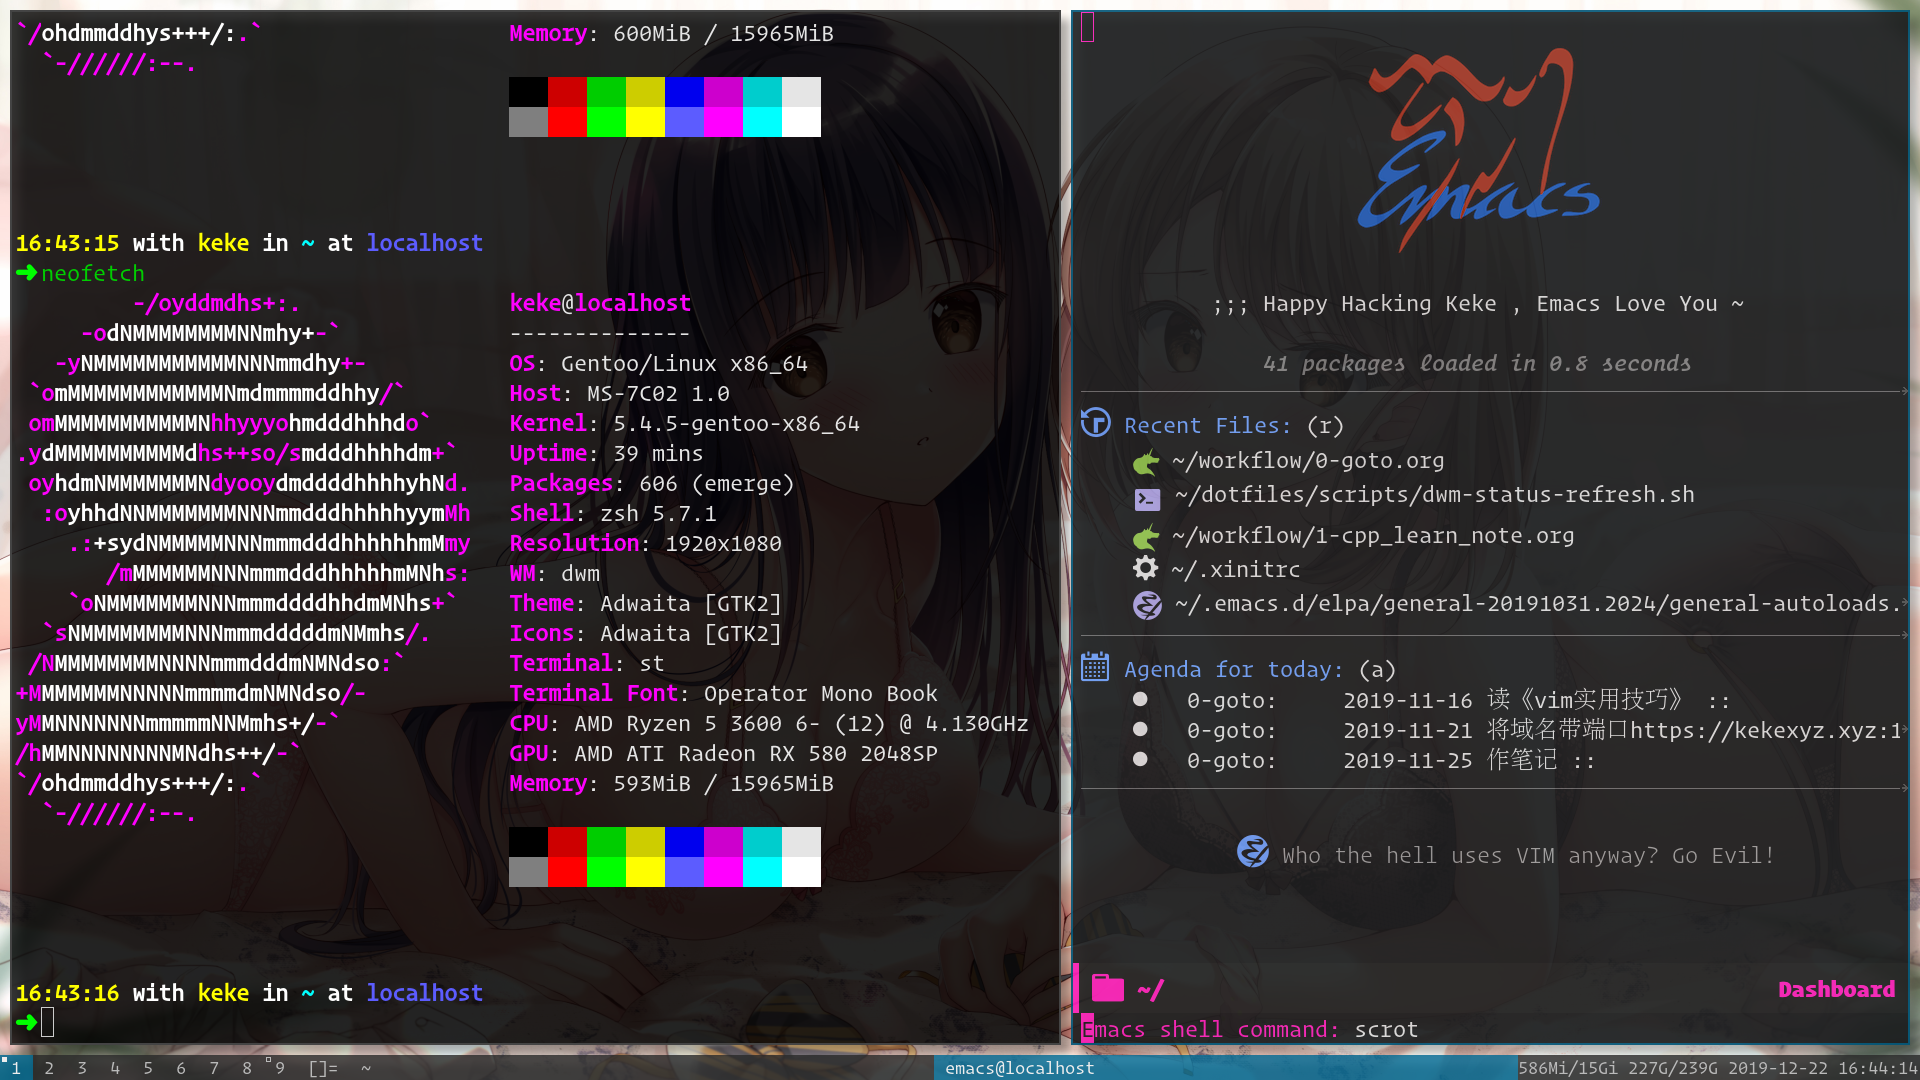
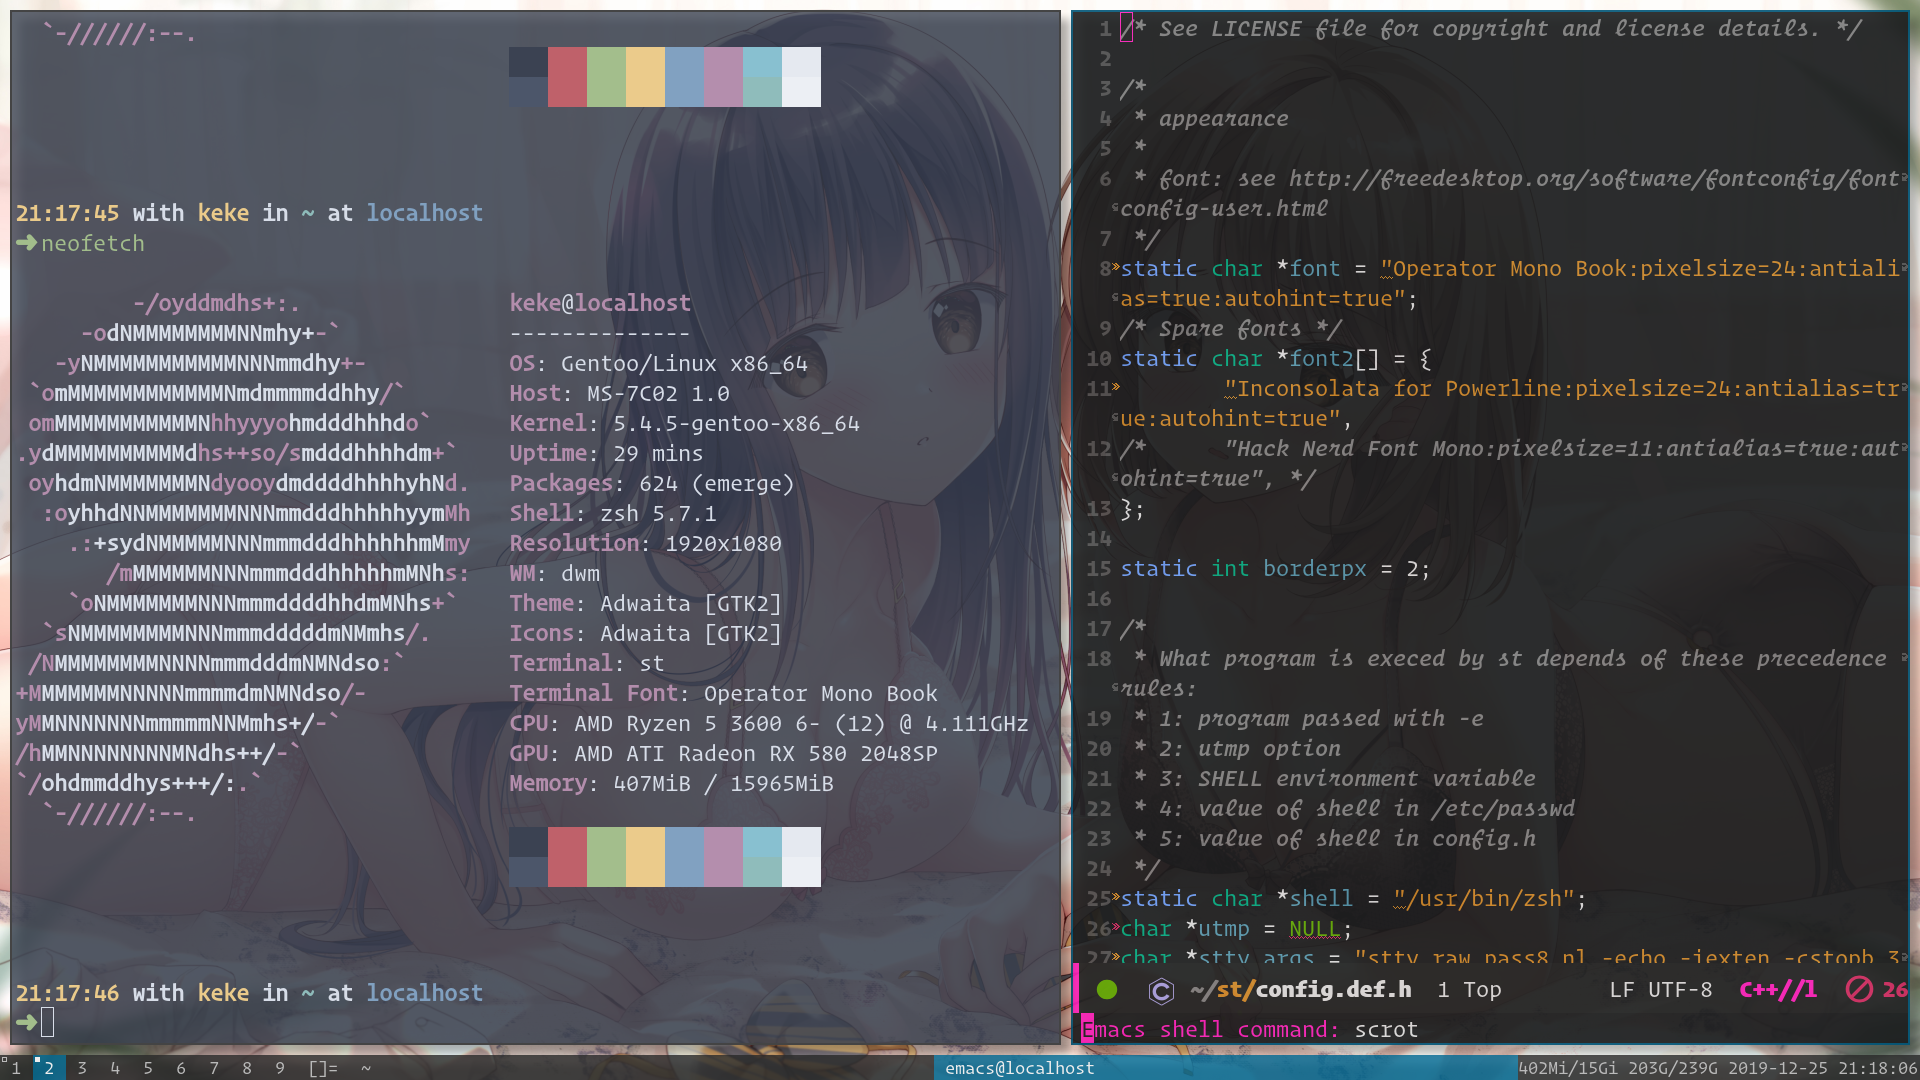
update st

diff --git a/st/x.c b/st/x.c
@@ -154,6 +154,8 @@ static void xhints(void);
 static int xloadcolor(int, const char *, Color *);
 static int xloadfont(Font *, FcPattern *);
 static void xloadfonts(char *, double);
+static int xloadsparefont(FcPattern *, int);
+static void xloadsparefonts(void);
 static void xunloadfont(Font *);
 static void xunloadfonts(void);
 static void xsetenv(void);
@@ -303,6 +305,7 @@ zoomabs(const Arg *arg)
 {
 	xunloadfonts();
 	xloadfonts(usedfont, arg->f);
+	xloadsparefonts();
 	cresize(0, 0);
 	redraw();
 	xhints();
@@ -1012,6 +1015,101 @@ xloadfonts(char *fontstr, double fontsize)
 	FcPatternDestroy(pattern);
 }
 
+int
+xloadsparefont(FcPattern *pattern, int flags)
+{
+	FcPattern *match;
+	FcResult result;
+	
+	match = FcFontMatch(NULL, pattern, &result);
+	if (!match) {
+		return 1;
+	}
+
+	if (!(frc[frclen].font = XftFontOpenPattern(xw.dpy, match))) {
+		FcPatternDestroy(match);
+		return 1;
+	}
+
+	frc[frclen].flags = flags;
+	/* Believe U+0000 glyph will present in each default font */
+	frc[frclen].unicodep = 0;
+	frclen++;
+
+	return 0;
+}
+
+void
+xloadsparefonts(void)
+{
+	FcPattern *pattern;
+	double sizeshift, fontval;
+	int fc;
+	char **fp;
+
+	if (frclen != 0)
+		die("can't embed spare fonts. cache isn't empty");
+
+	/* Calculate count of spare fonts */
+	fc = sizeof(font2) / sizeof(*font2);
+	if (fc == 0)
+		return;
+
+	/* Allocate memory for cache entries. */
+	if (frccap < 4 * fc) {
+		frccap += 4 * fc - frccap;
+		frc = xrealloc(frc, frccap * sizeof(Fontcache));
+	}
+
+	for (fp = font2; fp - font2 < fc; ++fp) {
+	
+		if (**fp == '-')
+			pattern = XftXlfdParse(*fp, False, False);
+		else
+			pattern = FcNameParse((FcChar8 *)*fp);
+	
+		if (!pattern)
+			die("can't open spare font %s\n", *fp);
+	   		
+		if (defaultfontsize > 0) {
+			sizeshift = usedfontsize - defaultfontsize;
+			if (sizeshift != 0 &&
+					FcPatternGetDouble(pattern, FC_PIXEL_SIZE, 0, &fontval) ==
+					FcResultMatch) {	
+				fontval += sizeshift;
+				FcPatternDel(pattern, FC_PIXEL_SIZE);
+				FcPatternDel(pattern, FC_SIZE);
+				FcPatternAddDouble(pattern, FC_PIXEL_SIZE, fontval);
+			}
+		}
+	
+		FcPatternAddBool(pattern, FC_SCALABLE, 1);
+	
+		FcConfigSubstitute(NULL, pattern, FcMatchPattern);
+		XftDefaultSubstitute(xw.dpy, xw.scr, pattern);
+	
+		if (xloadsparefont(pattern, FRC_NORMAL))
+			die("can't open spare font %s\n", *fp);
+	
+		FcPatternDel(pattern, FC_SLANT);
+		FcPatternAddInteger(pattern, FC_SLANT, FC_SLANT_ITALIC);
+		if (xloadsparefont(pattern, FRC_ITALIC))
+			die("can't open spare font %s\n", *fp);
+			
+		FcPatternDel(pattern, FC_WEIGHT);
+		FcPatternAddInteger(pattern, FC_WEIGHT, FC_WEIGHT_BOLD);
+		if (xloadsparefont(pattern, FRC_ITALICBOLD))
+			die("can't open spare font %s\n", *fp);
+	
+		FcPatternDel(pattern, FC_SLANT);
+		FcPatternAddInteger(pattern, FC_SLANT, FC_SLANT_ROMAN);
+		if (xloadsparefont(pattern, FRC_BOLD))
+			die("can't open spare font %s\n", *fp);
+	
+		FcPatternDestroy(pattern);
+	}
+}
+
 void
 xunloadfont(Font *f)
 {
@@ -1103,6 +1201,9 @@ xinit(int cols, int rows)
 
 	usedfont = (opt_font == NULL)? font : opt_font;
 	xloadfonts(usedfont, 0);
+
+	/* spare fonts */
+	xloadsparefonts();
 
 	/* colors */
 	xw.cmap = XCreateColormap(xw.dpy, parent, xw.vis, None);

diff --git a/st/config.def.h b/st/config.def.h
@@ -6,6 +6,12 @@
  * font: see http://freedesktop.org/software/fontconfig/fontconfig-user.html
  */
 static char *font = "Operator Mono Book:pixelsize=24:antialias=true:autohint=true";
+/* Spare fonts */
+static char *font2[] = {
+	"Inconsolata for Powerline:pixelsize=24:antialias=true:autohint=true",
+/*	"Hack Nerd Font Mono:pixelsize=11:antialias=true:autohint=true", */
+};
+
 static int borderpx = 2;
 
 /*
@@ -87,30 +93,30 @@ float alpha = 0.8;
 /* Terminal colors (16 first used in escape sequence) */
 static const char *colorname[] = {
 	/* 8 normal colors */
-	"black",
-	"red3",
-	"green3",
-	"yellow3",
-	"blue2",
-	"magenta3",
-	"cyan3",
-	"gray90",
+	"#3b4252", /* black   */
+	"#bf616a", /* red     */
+	"#a3be8c", /* green   */
+	"#ebcb8b", /* yellow  */
+	"#81a1c1", /* blue    */
+	"#b48ead", /* magenta */
+	"#88c0d0", /* cyan    */
+	"#e5e9f0", /* white   */
 
 	/* 8 bright colors */
-	"gray50",
-	"red",
-	"green",
-	"yellow",
-	"#5c5cff",
-	"magenta",
-	"cyan",
-	"white",
+	"#4c566a", /* black   */
+	"#bf616a", /* red     */
+	"#a3be8c", /* green   */
+	"#ebcb8b", /* yellow  */
+	"#81a1c1", /* blue    */
+	"#b48ead", /* magenta */
+	"#8fbcbb", /* cyan    */
+	"#eceff4", /* white   */
 
 	[255] = 0,
 
 	/* more colors can be added after 255 to use with DefaultXX */
-	"#cccccc",
-	"#555555",
+	"#2e3440", /* background */
+	"#d8dee9", /* foreground */
 	"black",
 };
 
@@ -119,10 +125,10 @@ static const char *colorname[] = {
  * Default colors (colorname index)
  * foreground, background, cursor, reverse cursor
  */
-unsigned int defaultfg = 7;
-unsigned int defaultbg = 258;
-static unsigned int defaultcs = 256;
-static unsigned int defaultrcs = 257;
+unsigned int defaultfg = 257;
+unsigned int defaultbg = 256;
+static unsigned int defaultcs = 257;
+static unsigned int defaultrcs = 256;
 
 /*
  * Default shape of cursor
@@ -131,7 +137,7 @@ static unsigned int defaultrcs = 257;
  * 6: Bar ("|")
  * 7: Snowman ("☃")
  */
-static unsigned int cursorshape = 2;
+static unsigned int cursorshape = 6;
 
 /*
  * Default columns and rows numbers
